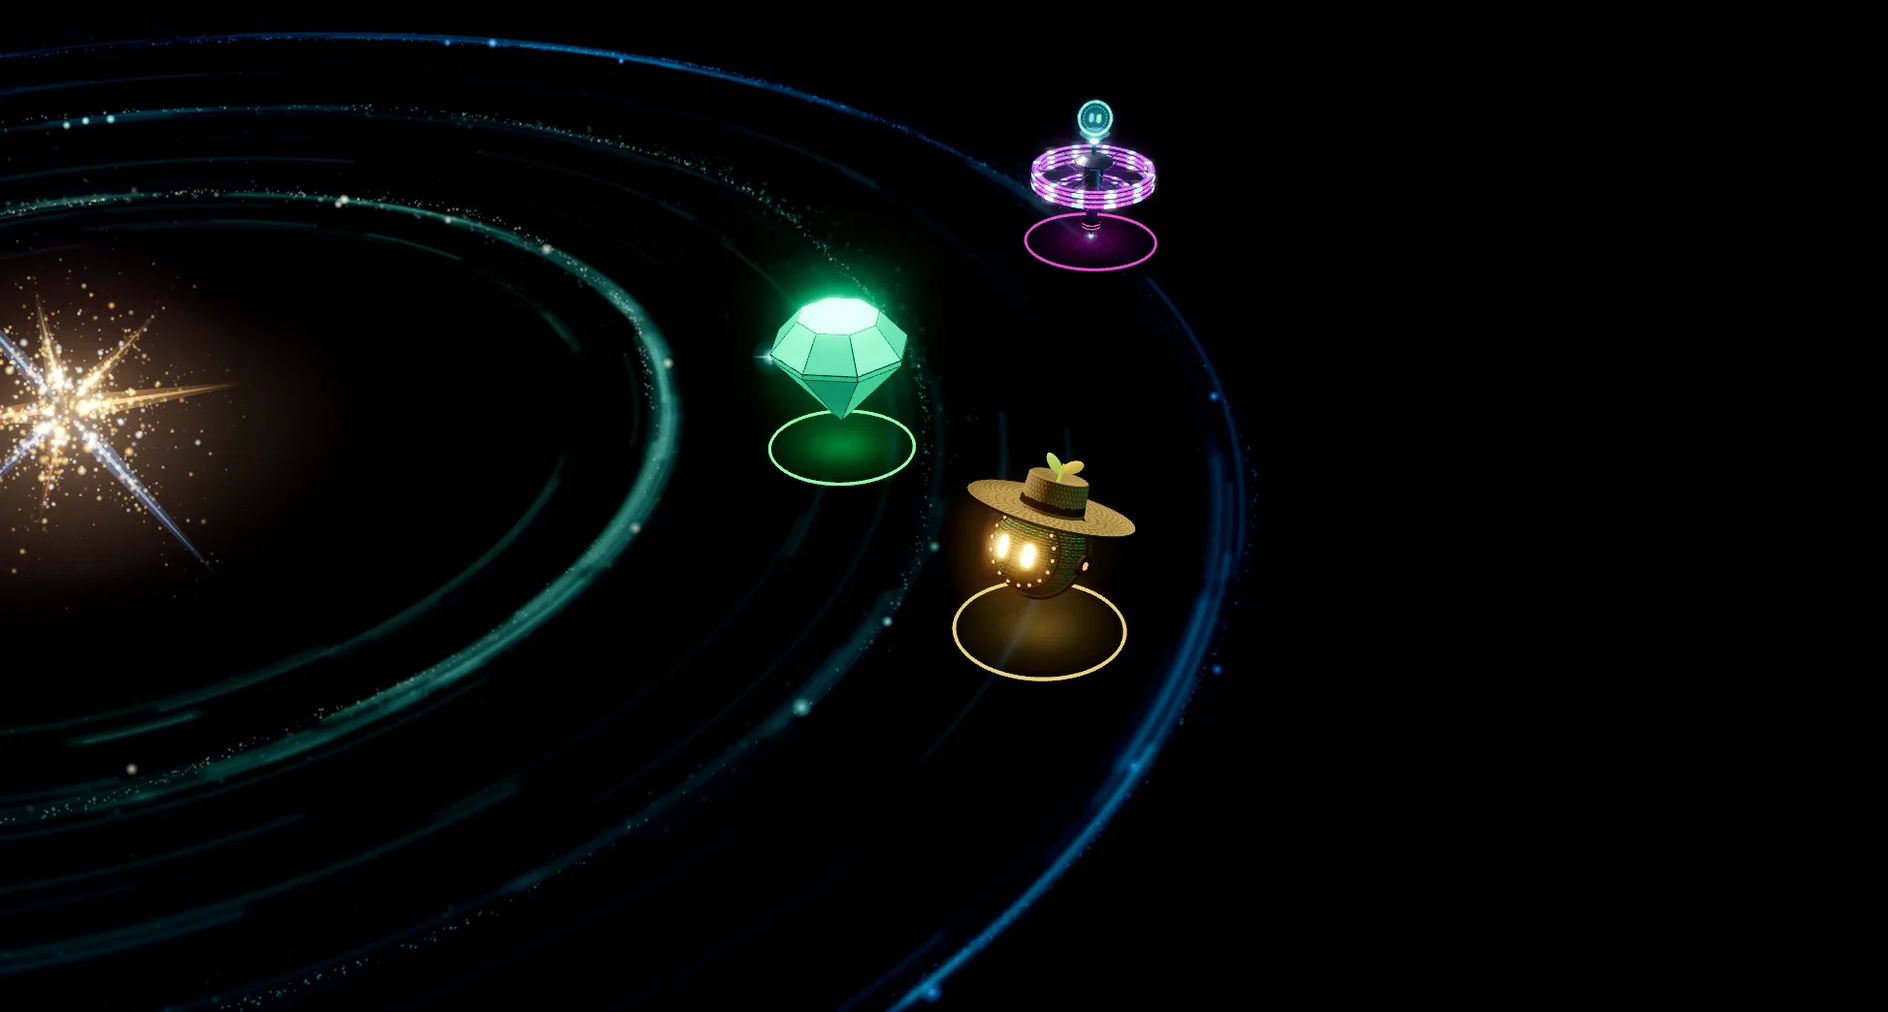
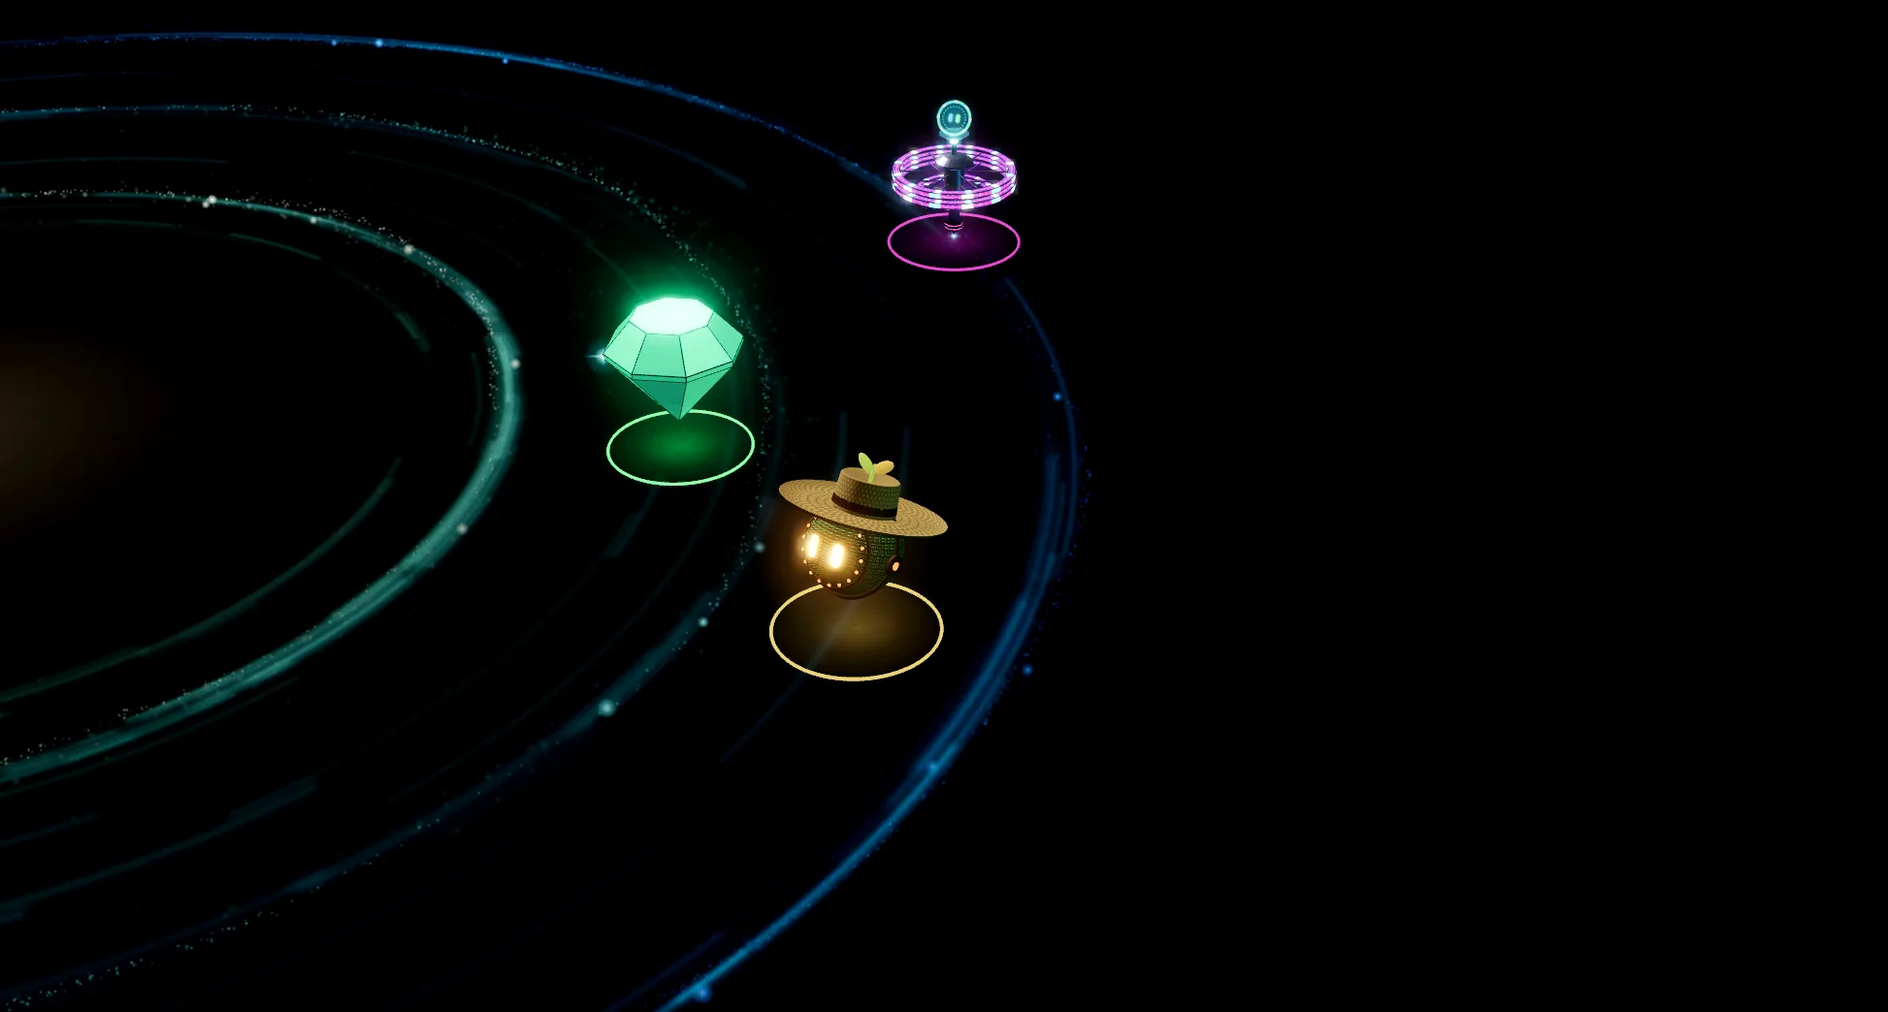
Cymetica Quest steps page, the fifteenth take's second round (the operator: "step 3 tam mas nejake divne slunce, to smaz a chybi ti vzducholod kolem promo marketu a na poslednim kroku vylepsi ten leaderboard screen moc male marginy je to tak vse na sebe namackane a je to cele male", with his crop of
Effort: xhigh

diff --git a/outbox/quest-steps/quest.css b/outbox/quest-steps/quest.css
@@ -529,13 +529,13 @@ h1 b { font-weight: 400; }
   font: 800 15px 'JetBrains Mono'; letter-spacing: .1em; text-transform: uppercase; color: #ffffff; white-space: nowrap;
   background: rgba(5, 9, 16, .84); border: 1px solid rgba(0, 255, 136, .55); box-shadow: 0 0 20px rgba(0, 255, 136, .22); }
 .nm i { width: 8px; height: 8px; border-radius: 50%; background: var(--green); box-shadow: 0 0 10px var(--green); }
-.users { position: absolute; z-index: 3; left: 55.3%; top: 71%; transform: translateX(-50%); display: inline-flex; align-items: center; gap: 8px;
+.users { position: absolute; z-index: 3; left: 45.1%; top: 71%; transform: translateX(-50%); display: inline-flex; align-items: center; gap: 8px;
   padding: 6px 15px; border-radius: 99px; white-space: nowrap;
   font: 700 15px/1 'JetBrains Mono'; color: var(--text);
   background: rgba(5, 10, 18, .82); box-shadow: inset 0 1px 0 rgba(255, 255, 255, .4), inset 0 0 0 1px rgba(0, 255, 136, .45), 0 0 24px rgba(0, 255, 136, .2); }
 .users i { width: 7px; height: 7px; border-radius: 50%; background: var(--green); box-shadow: 0 0 9px var(--green); }
 .users b { font: 400 24px/1 'Archivo Black', sans-serif; color: var(--green); text-shadow: 0 0 16px rgba(0, 255, 136, .65); }
-.plus { position: absolute; z-index: 4; left: 47%; top: 64%; padding: 4px 10px; border-radius: 99px; white-space: nowrap;
+.plus { position: absolute; z-index: 4; left: 37%; top: 64%; padding: 4px 10px; border-radius: 99px; white-space: nowrap;
   font: 800 14px/1 'JetBrains Mono'; letter-spacing: .04em; color: var(--green); opacity: 0; pointer-events: none;
   background: rgba(3, 22, 14, .9); box-shadow: inset 0 0 0 1px rgba(0, 255, 136, .75), 0 0 18px rgba(0, 255, 136, .55); }
 .plus.go { animation: plus 1.5s var(--ease) forwards; }
@@ -557,39 +557,41 @@ h1 b { font-weight: 400; }
   background: radial-gradient(50% 50% at 50% 50%, rgba(2, 4, 8, .62), rgba(2, 4, 8, .42) 55%, rgba(2, 4, 8, 0) 100%); }
 .stage.uni .sun { position: absolute; z-index: 2; left: 50.55%; top: 38.78%; width: 30.5%; transform: translate(-50%, -50%); pointer-events: none; }
 .stage.uni .sun img { width: 100%; }
-.lb-wrap { position: absolute; z-index: 3; right: -4.5%; bottom: -11%; top: auto; width: 334px; perspective: 1400px; perspective-origin: 100% 40%; }
-.lb { padding: 15px 12px 10px; border-radius: 20px; transform: rotateY(-13deg) rotateX(3deg); transform-origin: 100% 50%;
+/* (fifteenth take, the board: "moc male marginy je to tak vse na sebe namackane a je to cele male"): a third bigger,
+   its rows 60 px apart, room inside and round it */
+.lb-wrap { position: absolute; z-index: 3; right: -4.5%; bottom: -17%; top: auto; width: 452px; perspective: 1400px; perspective-origin: 100% 40%; }
+.lb { padding: 26px 22px 18px; border-radius: 26px; transform: rotateY(-13deg) rotateX(3deg); transform-origin: 100% 50%;
   background: linear-gradient(180deg, rgba(5, 10, 18, .72), rgba(4, 8, 15, .56)); transition: box-shadow .4s var(--ease); }
 .lb:has(.climb.won) { box-shadow: inset 0 1px 0 #ffffff, inset 0 -1px 0 rgba(0, 255, 136, .6), 0 0 65px rgba(0, 255, 136, .24); }
-.lb .gh { padding: 0 8px; }
-.lb .gh b { font-size: 16px; }
-.lb .gh .tg { font-size: 10px; color: var(--cyan); }
-.lb .gh .dot { width: 8px; height: 8px; animation: live-pulse 2s var(--ease) infinite; }
-.climb { position: relative; margin-top: 9px; height: calc(6 * 42px); }
-.row { position: absolute; left: 0; right: 0; top: 0; height: 42px; display: grid; grid-template-columns: 24px 28px minmax(0, 1fr) auto; grid-template-rows: auto auto;
-  grid-template-areas: "rk bd nm pz" "rk bd pp pz"; align-content: center; align-items: center; column-gap: 8px; row-gap: 1px;
-  padding: 0 9px; border-radius: 10px; transition: transform .7s var(--ease), background .4s, box-shadow .4s; }
+.lb .gh { padding: 0 12px; gap: 12px; }
+.lb .gh b { font-size: 22px; }
+.lb .gh .tg { font-size: 12.5px; color: var(--cyan); }
+.lb .gh .dot { width: 10px; height: 10px; animation: live-pulse 2s var(--ease) infinite; }
+.climb { position: relative; margin-top: 18px; height: calc(6 * 60px); }
+.row { position: absolute; left: 0; right: 0; top: 0; height: 60px; display: grid; grid-template-columns: 34px 40px minmax(0, 1fr) auto; grid-template-rows: auto auto;
+  grid-template-areas: "rk bd nm pz" "rk bd pp pz"; align-content: center; align-items: center; column-gap: 14px; row-gap: 4px;
+  padding: 0 16px; border-radius: 14px; transition: transform .7s var(--ease), background .4s, box-shadow .4s; }
 .row .rk { grid-area: rk; } .row .badge { grid-area: bd; } .row .nm { grid-area: nm; } .row .pp { grid-area: pp; } .row .pz { grid-area: pz; }
-.row + .row::before { content: ''; position: absolute; left: 10px; right: 10px; top: 0; height: 1px; background: linear-gradient(90deg, rgba(255, 255, 255, 0), rgba(255, 255, 255, .14), rgba(255, 255, 255, 0)); }
-.row .rk { font: 400 16px 'Archivo Black', sans-serif; color: var(--mute); text-align: center; background: none; filter: none; -webkit-background-clip: initial; background-clip: initial; }
-.row.p1 .rk, .row.p2 .rk, .row.p3 .rk { font-size: 20px; color: transparent; -webkit-background-clip: text; background-clip: text; }
+.row + .row::before { content: ''; position: absolute; left: 16px; right: 16px; top: 0; height: 1px; background: linear-gradient(90deg, rgba(255, 255, 255, 0), rgba(255, 255, 255, .14), rgba(255, 255, 255, 0)); }
+.row .rk { font: 400 20px 'Archivo Black', sans-serif; color: var(--mute); text-align: center; background: none; filter: none; -webkit-background-clip: initial; background-clip: initial; }
+.row.p1 .rk, .row.p2 .rk, .row.p3 .rk { font-size: 26px; color: transparent; -webkit-background-clip: text; background-clip: text; }
 .row.p1 .rk { background-image: linear-gradient(180deg, #eafff4, var(--rs1) 55%, #00a067); filter: drop-shadow(0 0 12px rgba(0, 255, 136, .65)); }
 .row.p2 .rk { background-image: linear-gradient(180deg, #e6fbff, var(--rs2) 55%, #0086b5); filter: drop-shadow(0 0 10px rgba(0, 207, 255, .55)); }
 .row.p3 .rk { background-image: linear-gradient(180deg, #e3edff, var(--rs3) 55%, #1d4ea8); filter: drop-shadow(0 0 9px rgba(59, 130, 246, .5)); }
-.row .badge { width: 26px; height: 26px; border-radius: 50%; overflow: hidden; background: #07101c; box-shadow: inset 0 0 0 1px rgba(255, 255, 255, .3), 0 0 0 2px rgba(30, 48, 80, .9); }
+.row .badge { width: 38px; height: 38px; border-radius: 50%; overflow: hidden; background: #07101c; box-shadow: inset 0 0 0 1px rgba(255, 255, 255, .3), 0 0 0 2px rgba(30, 48, 80, .9); }
 .row.p1 .badge { box-shadow: inset 0 0 0 1px rgba(255, 255, 255, .4), 0 0 0 2px var(--rs1), 0 0 16px rgba(0, 255, 136, .45); }
 .row.p2 .badge { box-shadow: inset 0 0 0 1px rgba(255, 255, 255, .4), 0 0 0 2px var(--rs2), 0 0 14px rgba(0, 207, 255, .4); }
 .row.p3 .badge { box-shadow: inset 0 0 0 1px rgba(255, 255, 255, .4), 0 0 0 2px var(--rs3), 0 0 12px rgba(59, 130, 246, .4); }
 .row .badge img { width: 100%; height: 100%; object-fit: cover; transform: scale(1.55); }
 .row .nm { position: static; transform: none; padding: 0; border: 0; background: none; box-shadow: none; text-transform: none; letter-spacing: 0;
-  font: 700 12.5px Inter, sans-serif; color: var(--text); overflow: hidden; text-overflow: ellipsis; display: flex; align-items: center; gap: 5px; white-space: nowrap; }
-.row .nm em { flex: none; font: 800 8px 'JetBrains Mono'; font-style: normal; letter-spacing: .12em; text-transform: uppercase; padding: 1.5px 5px; border-radius: 4px; color: #03140c; background: var(--green); }
-.row .pp { display: flex; align-items: center; gap: 5px; font: 600 10px 'JetBrains Mono'; color: var(--mute); white-space: nowrap; }
-.row .pp b { font: 800 11.5px 'JetBrains Mono'; color: var(--text); }
-.row .bar { position: relative; width: 34px; height: 3px; border-radius: 3px; background: rgba(30, 48, 80, .9); overflow: hidden; }
+  font: 700 16px Inter, sans-serif; color: var(--text); overflow: hidden; text-overflow: ellipsis; display: flex; align-items: center; gap: 8px; white-space: nowrap; }
+.row .nm em { flex: none; font: 800 9.5px 'JetBrains Mono'; font-style: normal; letter-spacing: .12em; text-transform: uppercase; padding: 2px 6px; border-radius: 5px; color: #03140c; background: var(--green); }
+.row .pp { display: flex; align-items: center; gap: 8px; font: 600 12.5px 'JetBrains Mono'; color: var(--mute); white-space: nowrap; }
+.row .pp b { font: 800 14.5px 'JetBrains Mono'; color: var(--text); }
+.row .bar { position: relative; width: 52px; height: 4px; border-radius: 3px; background: rgba(30, 48, 80, .9); overflow: hidden; }
 .row .bar i { position: absolute; left: 0; top: 0; bottom: 0; border-radius: 3px; background: linear-gradient(90deg, var(--cyan), var(--blue)); }
 .row.paid .bar i { background: linear-gradient(90deg, var(--cyan), var(--green)); }
-.row .pz { min-width: 0; font: 800 11px 'JetBrains Mono'; text-align: right; color: var(--mute); white-space: nowrap; }
+.row .pz { min-width: 0; padding-left: 10px; font: 800 14px 'JetBrains Mono'; text-align: right; color: var(--mute); white-space: nowrap; }
 .row.p1 .pz { color: var(--rs1); text-shadow: 0 0 14px rgba(0, 255, 136, .5); } .row.p2 .pz { color: var(--rs2); } .row.p3 .pz { color: var(--rs3); }
 .row.me { z-index: 5; background: linear-gradient(90deg, rgb(4, 32, 21), rgb(5, 17, 19) 70%); box-shadow: inset 0 0 0 1px rgba(0, 255, 136, .75), 0 0 30px rgba(0, 255, 136, .28), 0 10px 26px rgba(0, 0, 0, .6); }
 .row.me.pass { box-shadow: inset 0 0 0 1px var(--green), 0 0 46px rgba(0, 255, 136, .55), 0 16px 34px rgba(0, 0, 0, .72); }

diff --git a/outbox/quest-steps/index.html b/outbox/quest-steps/index.html
@@ -149,18 +149,19 @@
     <div class="num" aria-hidden="true">03</div>
     <!-- fifteenth take (2026-10-31, on Gemini's fork of this page, which he picked: "vyhodil bych proste ten screen ze
          stranky a nechal bych jen orbitu, v popredi bude velka budova Promo marketu co mame ve vesmiru a nad ni bude ta
-         krychle"): no page screenshot; the orbit with the farmer, the gem and, behind, the Agent Casino; our Universe's
-         Promo Market big in front (a clip of its own, keyed hard); over its projector the Promo Market's live cube
+         krychle"): no page screenshot; the orbit (its sun away: "divne slunce, to smaz") with the farmer, the gem and,
+         behind, the Agent Casino; our Universe's Promo Market big in front, its PROMO airship going round it (a clip
+         of its own, one lap long, keyed hard); over its projector the Promo Market's live cube
          (cymetica.com/promo-market, copied), the products of the Universe on its faces. record.py market -->
     <div class="stage duo market rv">
       <figure class="pic near">
         <div class="clip xf" data-anim="market-orbit" data-key="glow"><video muted playsinline preload="none" poster="pics/market-orbit.webp" width="1946" height="1044"><source src="clips/market-orbit.webm" type="video/webm"></video></div>
         <div class="clip xf bld" data-anim="market-building" data-key><video muted playsinline preload="none" poster="pics/market-building.webp" width="1946" height="1044"><source src="clips/market-building.webm" type="video/webm"></video></div>
-        <div class="holo-at" style="left: 85.2%; top: 44.4%" aria-label="The Promo Market's cube, the Universe's products on its faces">
+        <div class="holo-at" style="left: 73.6%; top: 42.7%" aria-label="The Promo Market's cube, the Universe's products on its faces">
           <div class="holo"><div class="aura"></div><div class="pool"></div><div class="beam"></div><i class="sp" style="left:18%;bottom:18%;animation-delay:0.00s"></i><i class="sp" style="left:55%;bottom:31%;animation-delay:0.50s"></i><i class="sp" style="left:28%;bottom:26%;animation-delay:1.00s"></i><i class="sp" style="left:65%;bottom:21%;animation-delay:1.50s"></i><i class="sp" style="left:38%;bottom:34%;animation-delay:2.00s"></i><i class="sp" style="left:75%;bottom:29%;animation-delay:2.50s"></i><i class="sp" style="left:48%;bottom:24%;animation-delay:3.00s"></i><i class="sp" style="left:21%;bottom:19%;animation-delay:3.50s"></i><i class="sp" style="left:58%;bottom:32%;animation-delay:4.00s"></i><i class="sp" style="left:31%;bottom:27%;animation-delay:4.50s"></i>
             <div class="cam"><div class="bob"><div class="hstage"><div class="f f1"><img alt="" class="" src="pics/apps/gem-screener.webp" width="560" height="315"></div><div class="f f2"><img alt="" class="on" src="pics/apps/agent-casino.webp" width="560" height="315"></div><div class="f f3"><img alt="" class="on" src="pics/apps/airdrop-farmer.webp" width="560" height="315"></div><div class="f f4"><img alt="" class="" src="pics/apps/gem-screener.webp" width="560" height="315"></div><div class="f f5"><img alt="" class="on" src="pics/apps/agent-casino.webp" width="560" height="315"></div><div class="f f6"><img alt="" class="on" src="pics/apps/airdrop-farmer.webp" width="560" height="315"></div><div class="core"></div></div></div></div></div>
         </div>
-        <span class="nm" style="left: 55.3%; top: 45.6%"><i></i>Airdrop Farmer</span><span class="nm" style="left: 44.4%; top: 29.9%"><i></i>Gem Screener</span><span class="nm" style="left: 58.1%; top: 8.7%"><i></i>Agent Casino</span>
+        <span class="nm" style="left: 45.1%; top: 45.6%"><i></i>Airdrop Farmer</span><span class="nm" style="left: 35.5%; top: 29.9%"><i></i>Gem Screener</span><span class="nm" style="left: 50.5%; top: 8.7%"><i></i>Agent Casino</span>
         <span class="users"><i></i><b>0</b> new users</span><span class="plus">+1 user</span>
       </figure>
       <svg class="flow" data-anim="flow" aria-hidden="true"></svg>

diff --git a/outbox/quest-steps/anim.js b/outbox/quest-steps/anim.js
@@ -375,7 +375,7 @@
     var NS = svg.namespaceURI, glows = [], paths = [], dots = [], users = 0, lastW = 0;
     // fifteenth take: from the Promo Market's platform, its left and front (x, y in % of the clip, record.py market),
     // to the farmer's ring, its right side
-    var FROM = [[73, 77], [75, 85], [80, 90]], TO = [59.5, 62.5];
+    var FROM = [[61.5, 77], [63.5, 85], [68.5, 90]], TO = [49.3, 62.5];
     // the cube's faces change their page every 2.4 s, two of three lit, as the Promo Market's own (promo_market_v2.js)
     setInterval(function () {
       document.querySelectorAll('.holo:not(.fast) .hstage').forEach(function (st) {

diff --git a/outbox/quest-steps/record.py b/outbox/quest-steps/record.py
@@ -280,7 +280,13 @@ def farmer(b, seconds=12):
 # Market (u3d.js adPromo) big in front on the right, its own hologram away (everything over the projector's lens: the
 # page sets the Promo Market's live cube there), its ticker band without its figure (that reads ../promo-market/data.js,
 # which this server does not serve, so it said 0 UP FOR GRABS)
-MARKET = dict(ga=0.32, cl=3, ca=0.75, az=1.25, el=0.55, dist=13.0, ty=0.3, pk=0.2, pr=3.0, ps=2.8)
+# Its second round ("step 3 tam mas nejake divne slunce, to smaz a chybi ti vzducholod kolem promo marketu"): the sun
+# (u3d.js core(), coreG) hidden; the PROMO airship back, circling it; the building's clip one whole lap of the airship
+# long (`lap` s, 80 in the Universe: a 12 s clip would have jumped it back a sixth of a lap at every loop), and so
+# everything of the building seamless at that length: its rings turned whole quarters, its band a whole width, its bob
+# twice, its slow turn held still, its own clock run at `tsc` so the billboard's magenta and amber come round 4 times
+MARKET = dict(ga=0.32, cl=3, ca=0.75, az=1.25, el=0.55, dist=13.0, ty=0.3, pk=0.2, pr=3.0, ps=2.8, lap=30.0, tsc=28 / 30,
+              pan=1.0)   # the airship's hull, measured over a lap: 58 to 92 % of the canvas across (at 0: 70 to 104)
 MARKET_SETUP = """(o) => { const uv = CO.uv, V = uv.camera.position.constructor, up = new V(0, 1, 0);
   uv.arc = function () {}; (uv.arcs || []).forEach(a => { uv.scene.remove(a.head, a.streak); }); uv.arcs = [];
   const by = id => uv.items.find(x => x.c.id === id);
@@ -300,7 +306,16 @@ MARKET_SETUP = """(o) => { const uv = CO.uv, V = uv.camera.position.constructor,
   const p = T.clone().lerp(cam, o.pk).addScaledVector(right, h * o.pr); p.y = f0.y;
   P.plot.root.position.copy(p); P.plot.root.scale.multiplyScalar(o.ps);
   P.plot.root.traverse(n => { if (n.isGroup && Math.abs(n.scale.x - 0.85) < 1e-3 && n.children.length > 20) window.__st = n; });
-  const st = window.__st; st.children.forEach(ch => { if (ch.isPoints || ch.isSprite || ch.position.y > 5.85) ch.visible = false; });
+  const st = window.__st, airship = st.children.find(ch => ch.isGroup && Math.abs(ch.position.y - 7.65) < 0.02);
+  st.children.forEach(ch => { if (ch !== airship && (ch.isPoints || ch.isSprite || ch.position.y > 5.85)) ch.visible = false; });
+  const rings = st.children.filter(ch => ch.isGroup && [3.05, 4.1].some(y => Math.abs(ch.position.y - y) < 0.01));
+  const b = P.plot.b, tick0 = b.tick, L = o.lap, body = P.plot.body;
+  Object.defineProperty(body.rotation, 'y', { get() { return this._y; }, set() {} });
+  let bob = 0; Object.defineProperty(body.position, 'y', { get() { return bob; }, set() {} });
+  b.tick = (t) => { tick0(t * o.tsc); const w = 2 * Math.PI * t / L;
+    airship.rotation.y = w; rings[0].rotation.y = Math.PI / 2 * 6 * t / L; rings[1].rotation.y = -Math.PI / 2 * 8 * t / L;
+    window.__band.material.map.offset.x = -t / L; bob = Math.sin(2 * w) * 0.22; };
+  if (uv.coreG) uv.coreG.visible = false;
   st.children.forEach(ch => { const gp = ch.geometry && ch.geometry.parameters; if (gp && gp.openEnded && Math.abs(gp.radiusTop - 1.6) < 1e-6) window.__band = ch; });
   const tex = window.__band.material.map, cv = tex.image, g2 = cv.getContext('2d'), H = cv.height;
   g2.clearRect(0, 0, cv.width, H); g2.font = '800 40px "JetBrains Mono", monospace'; g2.textBaseline = 'middle';
@@ -308,6 +323,8 @@ MARKET_SETUP = """(o) => { const uv = CO.uv, V = uv.camera.position.constructor,
     g2.fillStyle = col; g2.fillText(t, x, H / 2 + 2); x += g2.measureText(t).width + 30; g2.fillStyle = '#00cfff'; g2.fillRect(x - 20, H / 2 - 4, 8, 8); x += 14; });
   g2.fillStyle = 'rgba(0,207,255,.6)'; g2.fillRect(0, 4, cv.width, 3); g2.fillRect(0, H - 7, cv.width, 3); tex.needsUpdate = true;
   [F, G, C, P].forEach(x => { x.anchor.set(x.plot.root.position.x, x.plot.root.position.y + (x.plot.top + 0.5) * (x.plot.k || 1) * (x === P ? o.ps : 1), x.plot.root.position.z); });
+  // the picture panned right (the scene left), so the airship's lap on the far side stays in it
+  T.addScaledVector(right, h * o.pan); cam.addScaledVector(right, h * o.pan);
   uv.tween(cam, T, 0);
   if (uv.sky) uv.sky.visible = false; uv.scene.background = new uv.scene.background.constructor(0x000000); }"""
 # where the projector's lens and the three products' names stand, in % of the canvas
@@ -319,14 +336,17 @@ MARKET_WHERE = """() => { const uv = CO.uv, cam = uv.camera, V = cam.position.co
 
 
 def market(b, seconds=12):
-    """step 3: two clips of one camera (MARKET), cut to the same box: the orbit (its lanes, the sun, the farmer, the gem
-    and the Agent Casino; keyed as light, data-key="glow", the lanes being 2 to 7 % bright) and the Promo Market alone
-    (keyed hard as the HQ is: under the glow key its dark metal would let the sky through)"""
+    """step 3: two clips of one camera (MARKET), cut to the same box: the orbit (its lanes, the farmer, the gem and the
+    Agent Casino; keyed as light, data-key="glow", the lanes being 2 to 7 % bright), `seconds` long, and the Promo
+    Market with its airship alone (keyed hard as the HQ is: under the glow key its dark metal would let the sky
+    through), one lap of the airship long"""
     page = capture.universe(b, viewport={'width': 1600, 'height': 1000}, dsf=1.25)
     page.evaluate(MARKET_SETUP, MARKET)
     time.sleep(3)
     sel = '#uv3d canvas'
     box, size = lit_box(page, sel, 0.03)
+    # to the canvas's right edge: what is lit now leaves out the airship's far side (cut at 85 % when it was measured)
+    box = (box[0], box[1], (size[0] - box[0]) // 2 * 2, box[3])
     x, y, w, h = box
     pct = lambda pt: (round((pt[0] - x) / w * 100, 1), round((pt[1] - y) / h * 100, 1))
     print('market: canvas', size, 'box', box, 'aspect', f'{w} / {h}',
@@ -341,7 +361,7 @@ def market(b, seconds=12):
     page.evaluate(f"() => {{ const r = {by}; ['ad-farmer', 'ad-gem', 'ad-casino'].forEach(id => {{ r(id).visible = false; }}); r('ad-promo').visible = true; }}")
     page.evaluate(capture.HIDE_SKY)
     time.sleep(1)
-    record(page, sel, seconds, 'market-building', bps=16_000_000, crop=box)
+    record(page, sel, MARKET['lap'], 'market-building', bps=16_000_000, crop=box)
     page.close()
     frame_poster('market-orbit', 1.0)
     frame_poster('market-building', 1.0)

diff --git a/outbox/quest-steps/README.md b/outbox/quest-steps/README.md
@@ -46,6 +46,13 @@ revenue share), which is unchanged.
      round, the Universe's three products on its faces (Gem Screener, Agent Casino, Airdrop Farmer, two faces each),
      12.5 % of the clip a side. Two clips of one camera (record.py market): the orbit keyed as light, the building
      keyed hard over it, so its dark metal does not let the sky through. Users walk from the building to the farmer.
+   - **Its second round** ("step 3 tam mas nejake divne slunce, to smaz a chybi ti vzducholod kolem promo marketu a na
+     poslednim kroku vylepsi ten leaderboard screen moc male marginy ... a je to cele male"): the sun gone from step
+     3's orbit; the PROMO airship back round the building, its clip one lap of the airship long (30 s, the Universe's
+     80 s lap would have jumped back at every loop), everything else of the building turned to repeat at that length;
+     the picture panned so the airship's far side stays in it (measured over a lap: its hull 58 to 92 % across). The
+     leaderboard in step 5 a third bigger: 452 px wide, rows 60 px apart, its names 16 px, more room inside and
+     round it, a little lower so it leaves the farmer clear.
 14. **c71c5ba3** (2026-10-31), after the thirteenth:
    - **The mark** ("logo je velmi trapne"): made as Cymetica's own product marks are (Agent Casino's, live): a dark
      disc in a ring of their cyan-to-green, a dotted ring inside, two chevrons climbing, cyan under green; the name
